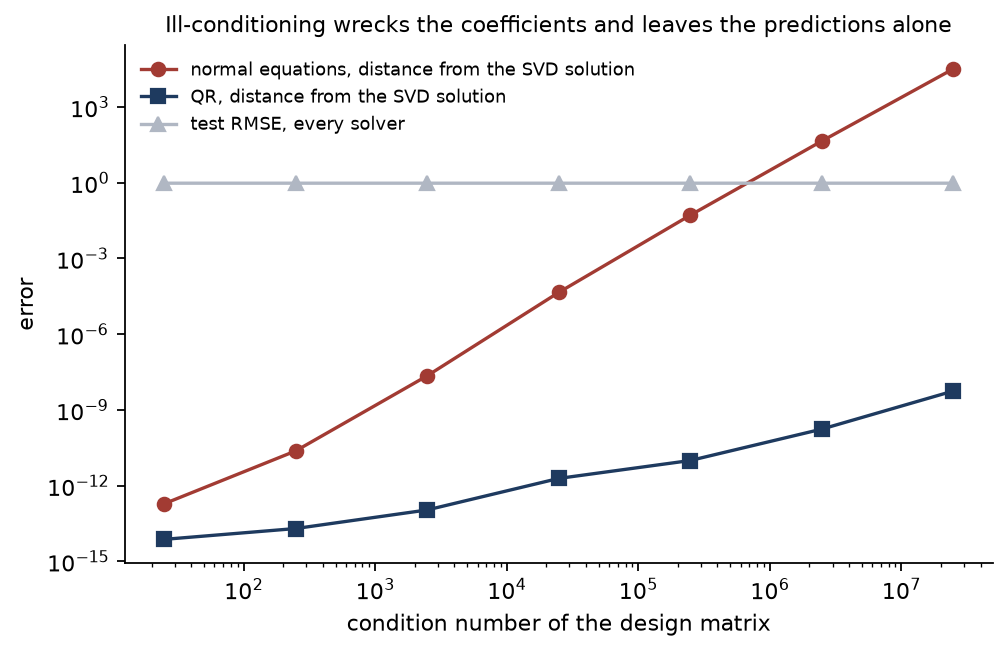
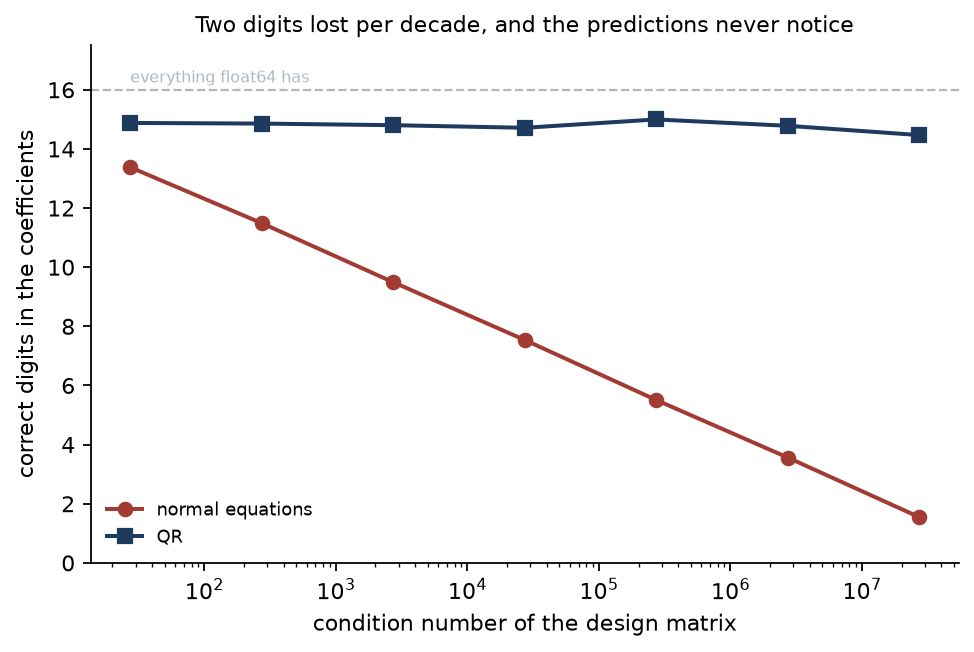
Report lesson 1 digit counts as a median, so they do not depend on the machine

diff --git a/src/ml_foundations/experiments/e01_linear.py b/src/ml_foundations/experiments/e01_linear.py
@@ -12,10 +12,19 @@ Ill-conditioning produces both, and a lesson that shows only the first leaves th
 believing a better solver would have saved them.
 
 Numerical damage is reported as a count of surviving digits rather than as a floating-point
-distance. That is not a simplification for the reader's benefit: the distance itself is
+distance. That is not a simplification for the reader's benefit: the distance itself *is*
 rounding error, and rounding error depends on which BLAS the machine has, so a table of
 mantissas would differ between this laptop and the continuous integration runner and the
-drift check would have to be switched off. The count of digits is a property of the problem.
+drift check would have to be switched off.
+
+Two further precautions make the count itself stable, and both were added after measuring how
+much it moves. First, each figure is the **median over nine datasets** rather than one draw:
+a single draw varies by about half a decade from seed to seed, which is the same size as the
+variation a different BLAS would cause, and a cell sitting a tenth of a decade from an integer
+boundary would flip between machines. Second, anything at or above fourteen digits is reported
+as ``>= 14`` rather than as a number, because the difference between fourteen and fifteen
+significant digits out of a possible sixteen is not a measurement of anything — it is the last
+bits of an arithmetic that got the answer right.
 """
 
 from __future__ import annotations
@@ -35,15 +44,25 @@ METHODS = ("normal", "qr", "svd")
 SCALES = (1e-1, 1e-2, 1e-3, 1e-4, 1e-5, 1e-6, 1e-7)
 #: float64 carries about sixteen significant decimal digits; nothing can share more.
 FLOAT64_DIGITS = 16
+#: At or above this, nothing measurable was lost and the exact count is not a measurement.
+FULL_PRECISION = 14
+#: Datasets each figure is a median over. Nine is enough to stop the seed deciding the digit.
+REPLICATES = tuple(range(1, 10))
 
 
-def shared_digits(estimate: np.ndarray, reference: np.ndarray) -> int:
+def shared_digits(estimate: np.ndarray, reference: np.ndarray) -> float:
     """How many significant decimal digits two solutions of the same problem agree on."""
     scale = float(np.linalg.norm(reference))
     gap = float(np.linalg.norm(estimate - reference))
     if gap == 0.0 or scale == 0.0:
-        return FLOAT64_DIGITS
-    return max(0, min(FLOAT64_DIGITS, math.floor(-math.log10(gap / scale))))
+        return float(FLOAT64_DIGITS)
+    return max(0.0, min(float(FLOAT64_DIGITS), -math.log10(gap / scale)))
+
+
+def render_digits(values: list[float]) -> str:
+    """Median digit count, floored, with everything near machine precision collapsed."""
+    median = float(np.median(values))
+    return f">= {FULL_PRECISION}" if median >= FULL_PRECISION else str(math.floor(median))
 
 
 def _fit_all(X: np.ndarray, y: np.ndarray) -> dict[str, LinearRegression | None]:
@@ -58,29 +77,62 @@ def _fit_all(X: np.ndarray, y: np.ndarray) -> dict[str, LinearRegression | None]
 
 
 def _solver_agreement(seed: int) -> str:
-    data = ds.make_linear(n_samples=400, n_features=8, noise=1.0, seed=seed)
+    """On well-behaved data the three solvers are the same estimator. Median over replicates."""
+    digits: dict[str, list[float]] = {method: [] for method in METHODS}
+    truth_gap: dict[str, list[float]] = {method: [] for method in METHODS}
+    test_error: dict[str, list[float]] = {method: [] for method in METHODS}
+
+    for replicate in REPLICATES:
+        data = ds.make_linear(n_samples=400, n_features=8, noise=1.0, seed=seed * replicate)
+        X_train, X_test, y_train, y_test = ds.train_test_split(data.X, data.y, seed=replicate)
+        assert data.coef is not None
+        fits = _fit_all(X_train, y_train)
+        reference = fits["svd"]
+        assert reference is not None
+        for method in METHODS:
+            fitted = fits[method]
+            assert fitted is not None
+            digits[method].append(shared_digits(fitted.coef_, reference.coef_))
+            truth_gap[method].append(float(np.linalg.norm(fitted.coef_ - data.coef)))
+            test_error[method].append(rmse(y_test, fitted.predict(X_test)))
+
+    rows = [
+        [
+            f"`{method}`",
+            "— (reference)" if method == "svd" else render_digits(digits[method]),
+            fmt(float(np.median(truth_gap[method]))),
+            fmt(float(np.median(test_error[method]))),
+        ]
+        for method in METHODS
+    ]
+    return table(
+        ["Solver", "Digits shared with `svd`", "Distance from the truth", "Test RMSE"],
+        rows,
+    )
+
+
+def _sweep_row(scale: float, seed: int) -> tuple[float, dict[str, float], float, float]:
+    """One dataset at one conditioning level: κ, per-solver digits, truth gap, test error."""
+    data = ds.make_collinear(
+        n_samples=400, n_features=6, independent_scale=scale, noise=1.0, seed=seed
+    )
     X_train, X_test, y_train, y_test = ds.train_test_split(data.X, data.y, seed=seed)
     assert data.coef is not None
-
     fits = _fit_all(X_train, y_train)
     reference = fits["svd"]
     assert reference is not None
 
-    rows = []
-    for method in METHODS:
-        fitted = fits[method]
-        assert fitted is not None
-        rows.append(
-            [
-                f"`{method}`",
-                "—" if method == "svd" else str(shared_digits(fitted.coef_, reference.coef_)),
-                fmt(float(np.linalg.norm(fitted.coef_ - data.coef))),
-                fmt(rmse(y_test, fitted.predict(X_test))),
-            ]
-        )
-    return table(
-        ["Solver", "Digits shared with `svd`", "Distance from the truth", "Test RMSE"],
-        rows,
+    digits = {
+        method: float("nan")
+        if fits[method] is None
+        else shared_digits(fits[method].coef_, reference.coef_)  # type: ignore[union-attr]
+        for method in ("normal", "qr")
+    }
+    return (
+        condition_number(X_train),
+        digits,
+        float(np.linalg.norm(reference.coef_ - data.coef)),
+        rmse(y_test, reference.predict(X_test)),
     )
 
 
@@ -88,43 +140,23 @@ def _conditioning_sweep(seed: int) -> tuple[str, list[tuple[float, float, float,
     rows = []
     plot_data: list[tuple[float, float, float, float]] = []
     for scale in SCALES:
-        data = ds.make_collinear(
-            n_samples=400, n_features=6, independent_scale=scale, noise=1.0, seed=seed
-        )
-        X_train, X_test, y_train, y_test = ds.train_test_split(data.X, data.y, seed=seed)
-        assert data.coef is not None
-
-        kappa = condition_number(X_train)
-        fits = _fit_all(X_train, y_train)
-        reference = fits["svd"]
-        assert reference is not None
-
-        digits = {}
-        raw_gap = {}
-        for method in ("normal", "qr"):
-            fitted = fits[method]
-            digits[method] = (
-                "refused" if fitted is None else str(shared_digits(fitted.coef_, reference.coef_))
-            )
-            raw_gap[method] = (
-                float("nan")
-                if fitted is None
-                else float(np.linalg.norm(fitted.coef_ - reference.coef_))
-            )
-
-        truth_gap = float(np.linalg.norm(reference.coef_ - data.coef))
-        test_error = rmse(y_test, reference.predict(X_test))
+        measured = [_sweep_row(scale, seed * replicate) for replicate in REPLICATES]
+        kappa = float(np.median([row[0] for row in measured]))
+        normal = [row[1]["normal"] for row in measured]
+        qr = [row[1]["qr"] for row in measured]
+        truth_gap = float(np.median([row[2] for row in measured]))
+        test_error = float(np.median([row[3] for row in measured]))
 
         rows.append(
             [
                 f"{kappa:.0e}",
-                digits["normal"],
-                digits["qr"],
+                "refused" if np.isnan(normal).all() else render_digits(normal),
+                render_digits(qr),
                 f"{truth_gap:.1e}",
                 fmt(test_error),
             ]
         )
-        plot_data.append((kappa, raw_gap["normal"], raw_gap["qr"], test_error))
+        plot_data.append((kappa, float(np.median(normal)), float(np.median(qr)), test_error))
 
     rendered = table(
         [
@@ -141,24 +173,19 @@ def _conditioning_sweep(seed: int) -> tuple[str, list[tuple[float, float, float,
 
 def _headline(seed: int) -> str:
     """The single comparison the README quotes: same data, same objective, different answers."""
-    data = ds.make_collinear(n_samples=400, n_features=6, independent_scale=1e-6, seed=seed)
-    X_train, X_test, y_train, y_test = ds.train_test_split(data.X, data.y, seed=seed)
-    fits = _fit_all(X_train, y_train)
-    reference = fits["svd"]
-    assert reference is not None
+    measured = [_sweep_row(1e-6, seed * replicate) for replicate in REPLICATES]
     rows = []
     for method in METHODS:
-        fitted = fits[method]
-        if fitted is None:
-            rows.append([f"`{method}`", "refused to solve", "—"])
+        if method == "svd":
+            rows.append(
+                [f"`{method}`", "— (reference)", fmt(float(np.median([r[3] for r in measured])))]
+            )
             continue
         rows.append(
             [
                 f"`{method}`",
-                "— (reference)"
-                if method == "svd"
-                else str(shared_digits(fitted.coef_, reference.coef_)),
-                fmt(rmse(y_test, fitted.predict(X_test))),
+                render_digits([row[1][method] for row in measured]),
+                fmt(float(np.median([row[3] for row in measured]))),
             ]
         )
     return table(["Solver", "Correct digits in the coefficients", "Test RMSE"], rows)
@@ -169,34 +196,29 @@ def _plot(path: Path, plot_data: list[tuple[float, float, float, float]]) -> Non
         if ax is None:
             return
         kappa = [row[0] for row in plot_data]
-        ax.loglog(
+        ax.semilogx(
             kappa,
-            [max(row[1], 1e-18) for row in plot_data],
+            [row[1] for row in plot_data],
             marker="o",
             color=ALARM,
-            label="normal equations, distance from the SVD solution",
+            linewidth=1.8,
+            label="normal equations",
         )
-        ax.loglog(
+        ax.semilogx(
             kappa,
-            [max(row[2], 1e-18) for row in plot_data],
+            [row[2] for row in plot_data],
             marker="s",
             color=ACCENT,
-            label="QR, distance from the SVD solution",
+            linewidth=1.8,
+            label="QR",
         )
-        ax.loglog(
-            kappa,
-            [row[3] for row in plot_data],
-            marker="^",
-            color=MUTED,
-            label="test RMSE, every solver",
-        )
+        ax.axhline(FLOAT64_DIGITS, color=MUTED, linestyle="--", linewidth=1)
+        ax.text(kappa[0], FLOAT64_DIGITS + 0.25, "everything float64 has", fontsize=7, color=MUTED)
+        ax.set_ylim(0, FLOAT64_DIGITS + 1.5)
         ax.set_xlabel("condition number of the design matrix")
-        ax.set_ylabel("error")
-        ax.set_title(
-            "Ill-conditioning wrecks the coefficients and leaves the predictions alone",
-            fontsize=10,
-        )
-        ax.legend(frameon=False, fontsize=8, loc="upper left")
+        ax.set_ylabel("correct digits in the coefficients")
+        ax.set_title("Two digits lost per decade, and the predictions never notice", fontsize=10)
+        ax.legend(frameon=False, fontsize=8, loc="lower left")
 
 
 def run(figures_dir: Path | None = None, *, seed: int = 1) -> dict[str, str]:

diff --git a/lessons/01-linear-regression.md b/lessons/01-linear-regression.md
@@ -34,18 +34,27 @@ It is also, in a specific and measurable way, the worst of the three reasonable 
 | `qr` | Factors `X = QR`, then back-substitutes `Rw = Qᵀy` | ~2× |
 | `svd` | Factors `X = USVᵀ` and inverts the singular values worth trusting | ~6× |
 
-All three minimise the same objective, so on ordinary data they return the same answer:
+All three minimise the same objective, so on ordinary data they return the same answer. Every
+figure below is the median over nine independently generated datasets — a single draw of this
+measurement varies by about half a decade, which is enough for the seed rather than the method
+to decide the last digit:
 
 <!-- results: ols-solver-agreement -->
 | Solver | Digits shared with `svd` | Distance from the truth | Test RMSE |
 |---|---:|---:|---:|
-| `normal` | 15 | 0.214 | 1.048 |
-| `qr` | 15 | 0.214 | 1.048 |
-| `svd` | — | 0.214 | 1.048 |
+| `normal` | >= 14 | 0.211 | 0.999 |
+| `qr` | >= 14 | 0.211 | 0.999 |
+| `svd` | — (reference) | 0.211 | 0.999 |
 <!-- /results -->
 
-Fifteen shared digits out of a possible sixteen. On data like this the choice does not matter
-and anyone who tells you otherwise is selling something.
+Fourteen or more shared digits out of a possible sixteen, and identical distance from the
+truth. On data like this the choice does not matter, and anyone who tells you otherwise is
+selling something.
+
+*(Anything at or above fourteen digits is reported as `>= 14` rather than as a number. The
+difference between fourteen and fifteen significant digits is not a measurement of the method —
+it is the last bits of an arithmetic that got the answer right, and it moves with which BLAS
+library the machine has.)*
 
 ## The condition number
 
@@ -67,31 +76,32 @@ on data generated to be progressively more collinear:
 <!-- results: ols-conditioning -->
 | Condition number of X | Digits kept by `normal` | Digits kept by `qr` | Distance from the truth | Test RMSE |
 |---|---:|---:|---:|---:|
-| 2e+01 | 13 | 14 | 1.6e+00 | 0.954 |
-| 2e+02 | 11 | 14 | 1.6e+01 | 0.954 |
-| 2e+03 | 9 | 15 | 1.6e+02 | 0.954 |
-| 2e+04 | 7 | 14 | 1.6e+03 | 0.954 |
-| 2e+05 | 5 | 15 | 1.6e+04 | 0.954 |
-| 2e+06 | 3 | 14 | 1.6e+05 | 0.954 |
-| 2e+07 | 1 | 14 | 1.6e+06 | 0.954 |
+| 3e+01 | 13 | >= 14 | 1.2e+00 | 0.988 |
+| 3e+02 | 11 | >= 14 | 1.2e+01 | 0.989 |
+| 3e+03 | 9 | >= 14 | 1.2e+02 | 0.989 |
+| 3e+04 | 7 | >= 14 | 1.2e+03 | 0.989 |
+| 3e+05 | 5 | >= 14 | 1.2e+04 | 0.989 |
+| 3e+06 | 3 | >= 14 | 1.2e+05 | 0.989 |
+| 3e+07 | 1 | >= 14 | 1.2e+06 | 0.989 |
 <!-- /results -->
 
 Read the first two columns down. Every factor of ten in the condition number costs the normal
 equations **two digits** and costs QR **none**. That is the squaring, visible as an arithmetic
-sequence. By the last row the normal-equation coefficients have one correct digit left; a few
-rows further and they have none, and nothing in the fitted model announces it.
+sequence: 13, 11, 9, 7, 5, 3, 1. By the last row the normal-equation coefficients have one
+correct digit left; a few rows further and they have none, and nothing in the fitted model
+announces it.
 
-![Solver disagreement and prediction error against the condition number](../figures/01-conditioning.png)
+![Correct digits against the condition number](../figures/01-conditioning.png)
 
-*Coefficient error rises by two orders of magnitude for every one in the condition number when
-the normal equations are used, stays flat for QR, and never touches the prediction error at
-all.*
+*The slope of the red line is exactly −2 digits per decade, because forming `XᵀX` squares the
+conditioning before the solve begins. QR works at the conditioning of `X` itself and stays at
+machine precision throughout.*
 
 ## The trap: this does not show up in the fit
 
-Look at the last column of that table. **The test RMSE is identical in every row.** Seven
-orders of magnitude of conditioning, coefficients that end up wrong in the first digit, and
-the model predicts exactly as well as it did at the top.
+Look at the last column of that table. **The test RMSE is the same in every row**, to three
+decimals. Seven orders of magnitude of conditioning, coefficients that end up wrong in the
+first digit, and the model predicts exactly as well as it did at the top.
 
 This is the single most useful thing in this lesson. Ill-conditioning does not damage the
 predictions, because the direction the data actually varies in is still measured perfectly
@@ -130,9 +140,9 @@ returning a number produced entirely by rounding.
 <!-- results: ols-headline -->
 | Solver | Correct digits in the coefficients | Test RMSE |
 |---|---:|---:|
-| `normal` | 3 | 0.954 |
-| `qr` | 14 | 0.954 |
-| `svd` | — (reference) | 0.954 |
+| `normal` | 3 | 0.989 |
+| `qr` | >= 14 | 0.989 |
+| `svd` | — (reference) | 0.989 |
 <!-- /results -->
 
 ## Why the intercept is fitted by centring

diff --git a/README.md b/README.md
@@ -14,7 +14,7 @@ rather than measurements.
 This one is built the other way round. Nothing in these lessons is asserted. Every table below
 was produced by a script in this repository, `make report` rewrites all of them from the code,
 and CI fails the build if a committed number no longer follows from committed code. Every
-estimator is pinned by a test that would fail if it were wrong.
+estimator is pinned by a test at one of the tiers described below.
 
 I am a machine learning scientist — PhD in NLP, now building production LLM and ranking
 systems — and this is the material I use when I teach fundamentals. It is a companion to
